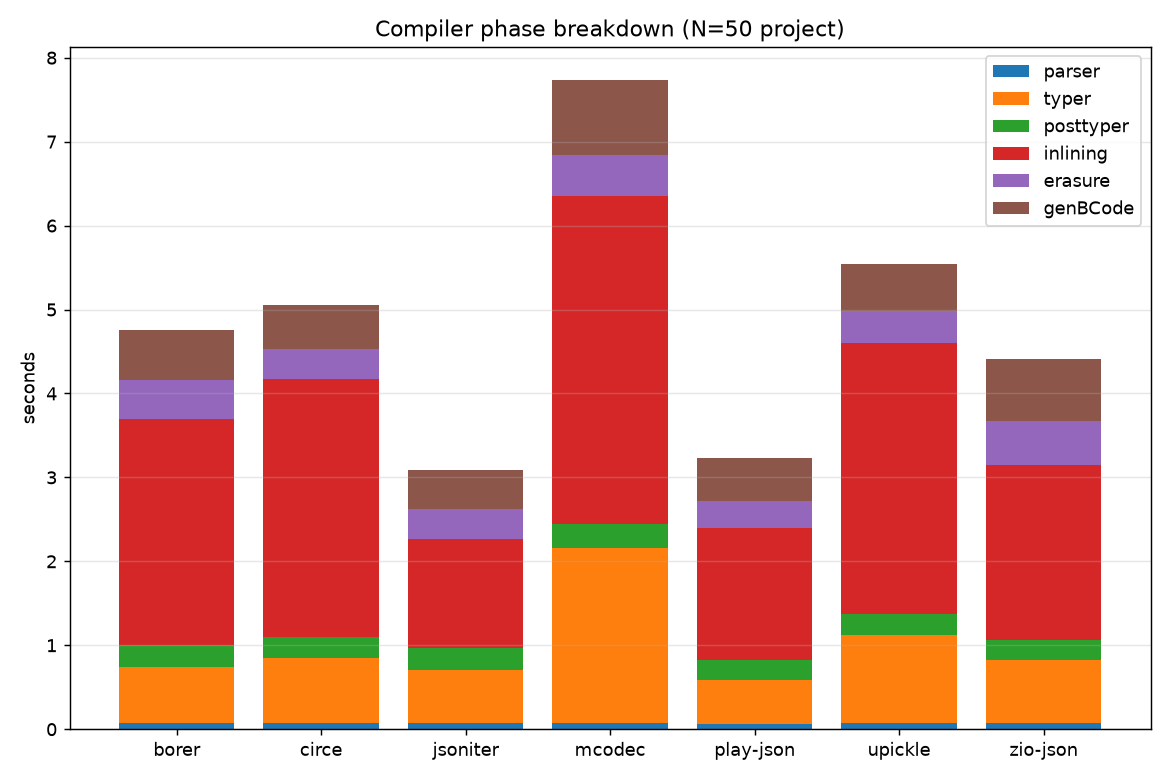
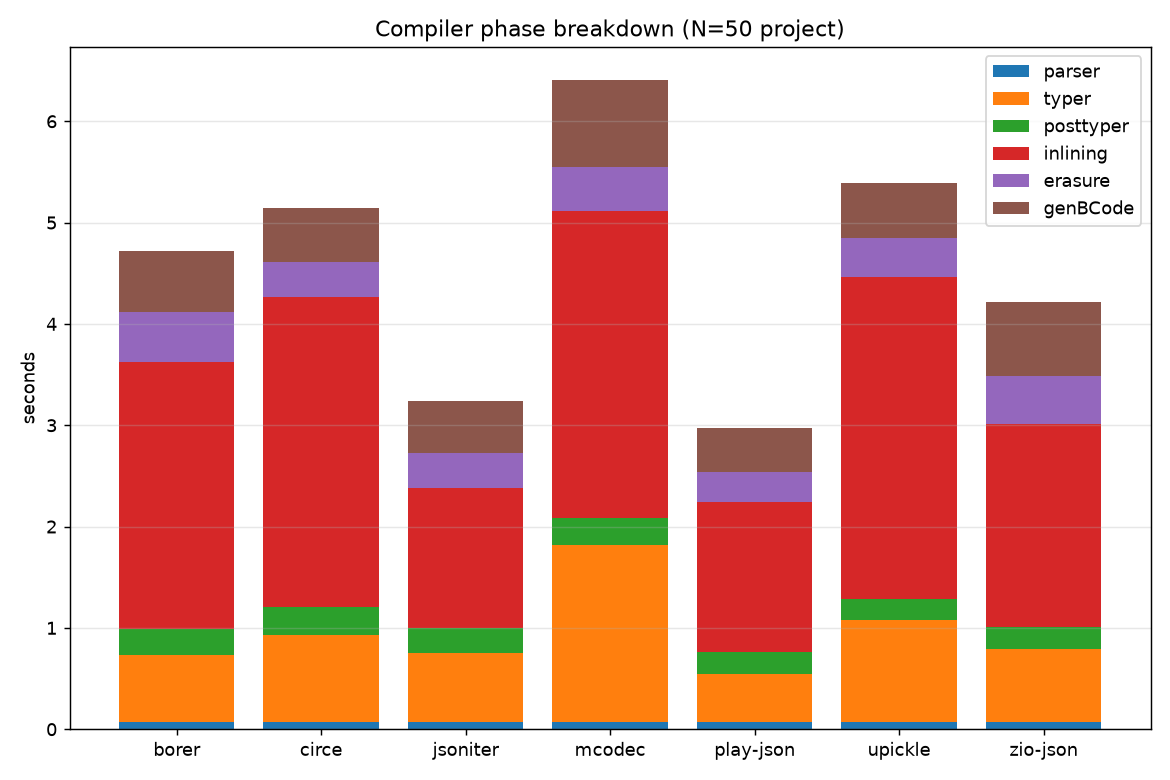
deps: bump Made to 0.5.0, refresh compile benchmarks
Made 0.5.0 pulls commons 0.1.3, whose `Expr.ofRefinedTuple` now emits a flat
`Tuple.fromArray(...).asInstanceOf[…]` instead of a nested `*:` chain
(halotukozak-com/commons#44). The nested form expanded to O(n²) tree size at
every `inline` derivation site — the mirror `elems` and each per-element
annotation-flag tuple.

Made 0.5.0 also changed the annotation API from `A | Null` to `A | NotExists`;
`deriveSum` picks the `@flatten` key with an inline match now instead of
`Option(...).fold`.

Compile-time sweep re-run for all 8 libraries. mcodec, N=50 (50 + 12 codecs),
clean `--server=false` compile:

  total            10.03s -> 9.06s   (-10%)
  inlining phase    3.90s -> 3.03s   (-22%)
  typer phase       2.09s -> 1.75s   (-16%)
  bytecode @ N=50   4555KB -> 4369KB

vs circe (total N=50): 1.60x -> 1.37x. mcodec's inlining phase is now below
circe's. Runtime throughput is unaffected; serde.csv unchanged.

Claude-Session: https://claude.ai/code/session_012JBPZ36jR2Pe8eNR3c9A38

diff --git a/benchmark/compile/generate.py b/benchmark/compile/generate.py
@@ -26,7 +26,7 @@ SCALA2 = "2.13.18"
 LIBS = {
     "mcodec": (
         ["//> using dep com.halotukozak::mcodec::0.0.0-BENCH",
-         "//> using dep com.halotukozak::made::0.4.1"],
+         "//> using dep com.halotukozak::made::0.5.0"],
         ["//> using options -Yexplicit-nulls"],
     ),
     "circe": (

diff --git a/docs/_docs/benchmarks.md b/docs/_docs/benchmarks.md
@@ -23,8 +23,8 @@ long it takes the compiler** to derive codecs, and **how fast those codecs run**
 - **mcodec's ADT write is a relative strength** — 87k ops/s on the recursive Geometry model, behind only jsoniter and
   ahead of circe (47k), borer and zio-json.
 - **Compile time is the weak spot.** The `transparent inline` derivation is the
-  steepest-scaling in the group — ~10 s for 50 + 12 codecs vs. ~4–6 s for the
-  Scala 3 macro libraries and **~4 s for GenCodec's Scala 2 macro** (≈2.5× mcodec's
+  steepest-scaling in the group — ~9 s for 50 + 12 codecs vs. ~4–7 s for the
+  Scala 3 macro libraries and **~4 s for GenCodec's Scala 2 macro** (≈2.4× mcodec's
   own ancestor). It also emits ~3.5× more bytecode than circe or jsoniter. The
   cost is concentrated in the **typer** and **inlining** phases.
 
@@ -127,14 +127,14 @@ _Clean compile wall time, seconds (lower is better); last column is total emitte
 
 | library | N=0 | N=1 | N=10 | N=25 | N=50 | bytecode @ N=50 |
 | --- | --- | --- | --- | --- | --- | --- |
-| borer | 1.0 | 1.8 | 3.4 | 4.6 | 6.4 | 1,701 KB |
-| circe | 1.0 | 1.9 | 3.2 | 4.5 | 6.3 | 1,231 KB |
-| gencodec ¹ | 0.9 | 1.3 | 2.3 | 3.1 | 4.0 | 1,531 KB |
-| jsoniter | 1.2 | 1.5 | 2.6 | 3.6 | 4.7 | 1,306 KB |
-| mcodec | 0.9 | 2.0 | 4.3 | 6.8 | 10.0 | 4,448 KB |
-| play-json | 1.0 | 1.9 | 2.8 | 3.6 | 4.6 | 1,220 KB |
-| upickle | 1.1 | 2.4 | 4.0 | 5.3 | 7.1 | 2,269 KB |
-| zio-json | 1.0 | 1.7 | 3.4 | 4.9 | 6.4 | 2,595 KB |
+| borer | 0.9 | 1.7 | 3.3 | 4.7 | 6.6 | 1,701 KB |
+| circe | 0.9 | 1.7 | 3.1 | 4.8 | 6.6 | 1,231 KB |
+| gencodec ¹ | 0.9 | 1.2 | 2.2 | 2.9 | 3.8 | 1,531 KB |
+| jsoniter | 1.0 | 1.5 | 2.5 | 3.4 | 4.4 | 1,306 KB |
+| mcodec | 1.0 | 1.9 | 4.1 | 6.6 | 9.1 | 4,369 KB |
+| play-json | 1.0 | 1.9 | 2.8 | 3.4 | 4.4 | 1,220 KB |
+| upickle | 1.0 | 2.4 | 4.0 | 5.3 | 7.1 | 2,269 KB |
+| zio-json | 1.0 | 1.9 | 3.3 | 4.6 | 6.5 | 2,595 KB |
 
 ¹ GenCodec is compiled by **Scala 2.13.18**, not the Scala 3 compiler — a cross-ecosystem data point, not a like-for-like measurement.
 
@@ -144,13 +144,13 @@ _Seconds per scalac phase for the N=50 project. Macro / mirror derivation and `i
 
 | library | parser | typer | posttyper | inlining | erasure | genBCode | typer+inlining |
 | --- | --- | --- | --- | --- | --- | --- | --- |
-| borer | 0.07 | 0.67 | 0.26 | 2.69 | 0.47 | 0.59 | **3.36** |
-| circe | 0.07 | 0.78 | 0.25 | 3.08 | 0.35 | 0.52 | **3.86** |
-| jsoniter | 0.08 | 0.64 | 0.26 | 1.30 | 0.36 | 0.47 | **1.93** |
-| mcodec | 0.07 | 2.09 | 0.29 | 3.90 | 0.49 | 0.89 | **5.99** |
-| play-json | 0.07 | 0.52 | 0.24 | 1.57 | 0.33 | 0.52 | **2.09** |
-| upickle | 0.07 | 1.05 | 0.25 | 3.22 | 0.39 | 0.56 | **4.27** |
-| zio-json | 0.07 | 0.75 | 0.24 | 2.09 | 0.52 | 0.74 | **2.84** |
+| borer | 0.07 | 0.66 | 0.25 | 2.64 | 0.49 | 0.60 | **3.30** |
+| circe | 0.08 | 0.85 | 0.28 | 3.06 | 0.34 | 0.54 | **3.91** |
+| jsoniter | 0.08 | 0.68 | 0.25 | 1.38 | 0.35 | 0.52 | **2.06** |
+| mcodec | 0.07 | 1.75 | 0.27 | 3.03 | 0.43 | 0.86 | **4.79** |
+| play-json | 0.07 | 0.48 | 0.22 | 1.49 | 0.29 | 0.43 | **1.96** |
+| upickle | 0.07 | 1.00 | 0.21 | 3.17 | 0.39 | 0.54 | **4.17** |
+| zio-json | 0.07 | 0.72 | 0.22 | 2.00 | 0.48 | 0.74 | **2.72** |
 <!-- BENCH:compile END -->
 
 ![compile scaling](images/benchmarks/compile-scaling.png)

diff --git a/README.md b/README.md
@@ -4,7 +4,7 @@
 derivation built on [M&DE](https://github.com/halotukozak/made). Ships with a JSON backend; BSON and CBOR `Input`/
 `Output` implementations exist in-tree but aren't wired up to a public `read`/`write` entry point yet.
 
-> **Experimental.** Pinned to Scala **3.9.0**, required by Made (`made_3:0.4.1`). Cross-built for JVM, Scala.js, and
+> **Experimental.** Pinned to Scala **3.9.0**, required by Made (`made_3:0.5.0`). Cross-built for JVM, Scala.js, and
 > Scala Native.
 
 ## Overview

diff --git a/docs/_docs/index.md b/docs/_docs/index.md
@@ -4,7 +4,7 @@
 derivation built on [M&DE](https://github.com/halotukozak/made). Ships with a JSON backend; BSON and CBOR `Input`/
 `Output` implementations exist in-tree but aren't wired up to a public `read`/`write` entry point yet.
 
-> **Experimental.** Pinned to Scala **3.9.0**, required by Made (`made_3:0.4.1`). Cross-built for JVM, Scala.js, and
+> **Experimental.** Pinned to Scala **3.9.0**, required by Made (`made_3:0.5.0`). Cross-built for JVM, Scala.js, and
 > Scala Native.
 
 ## Overview
